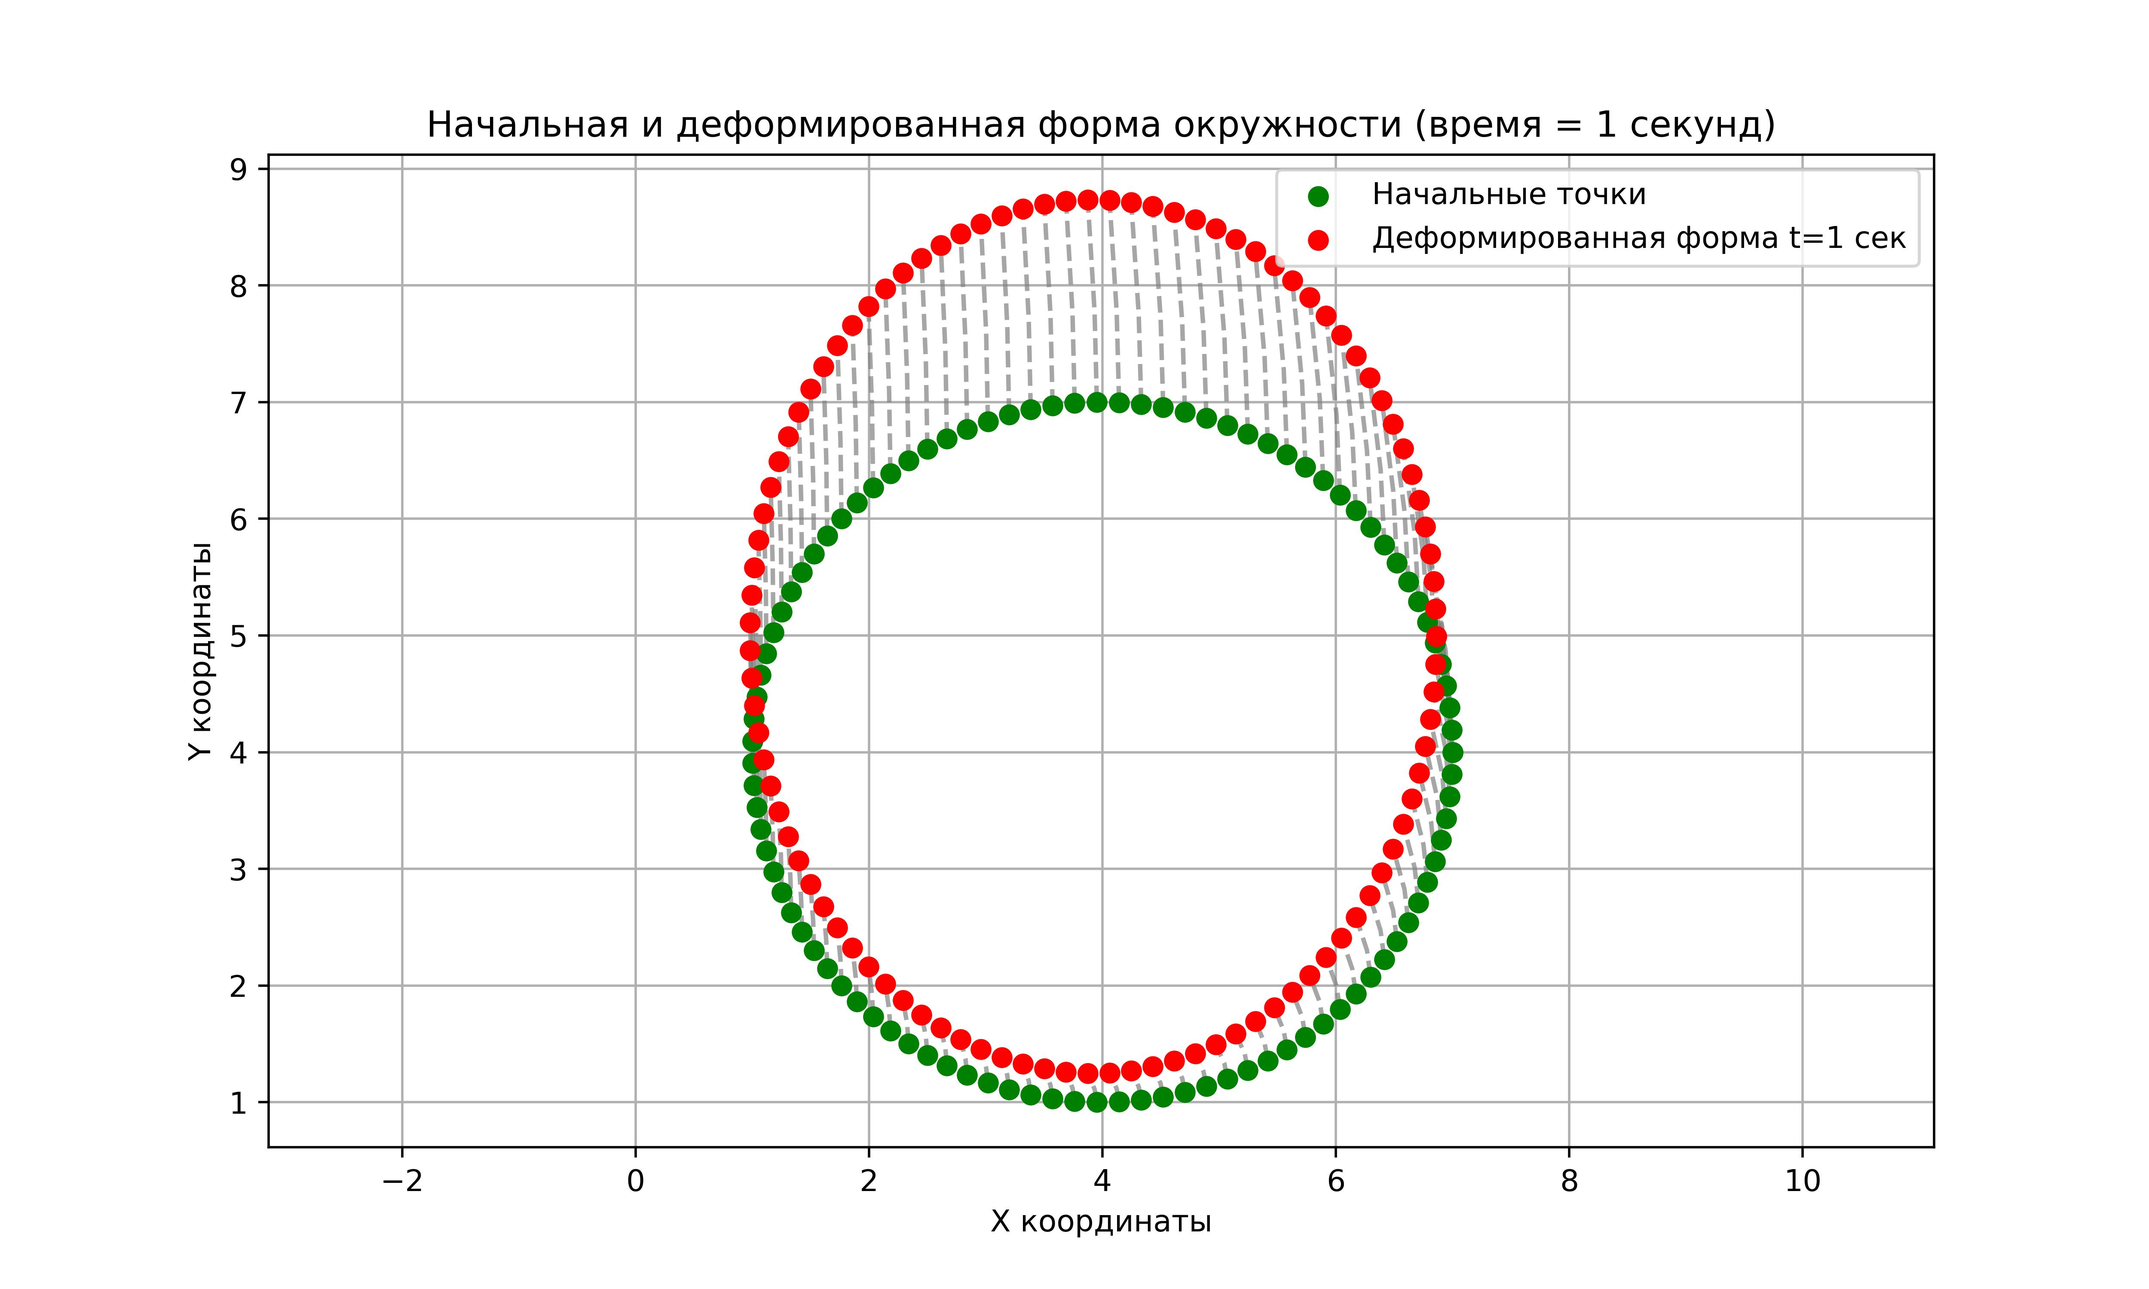
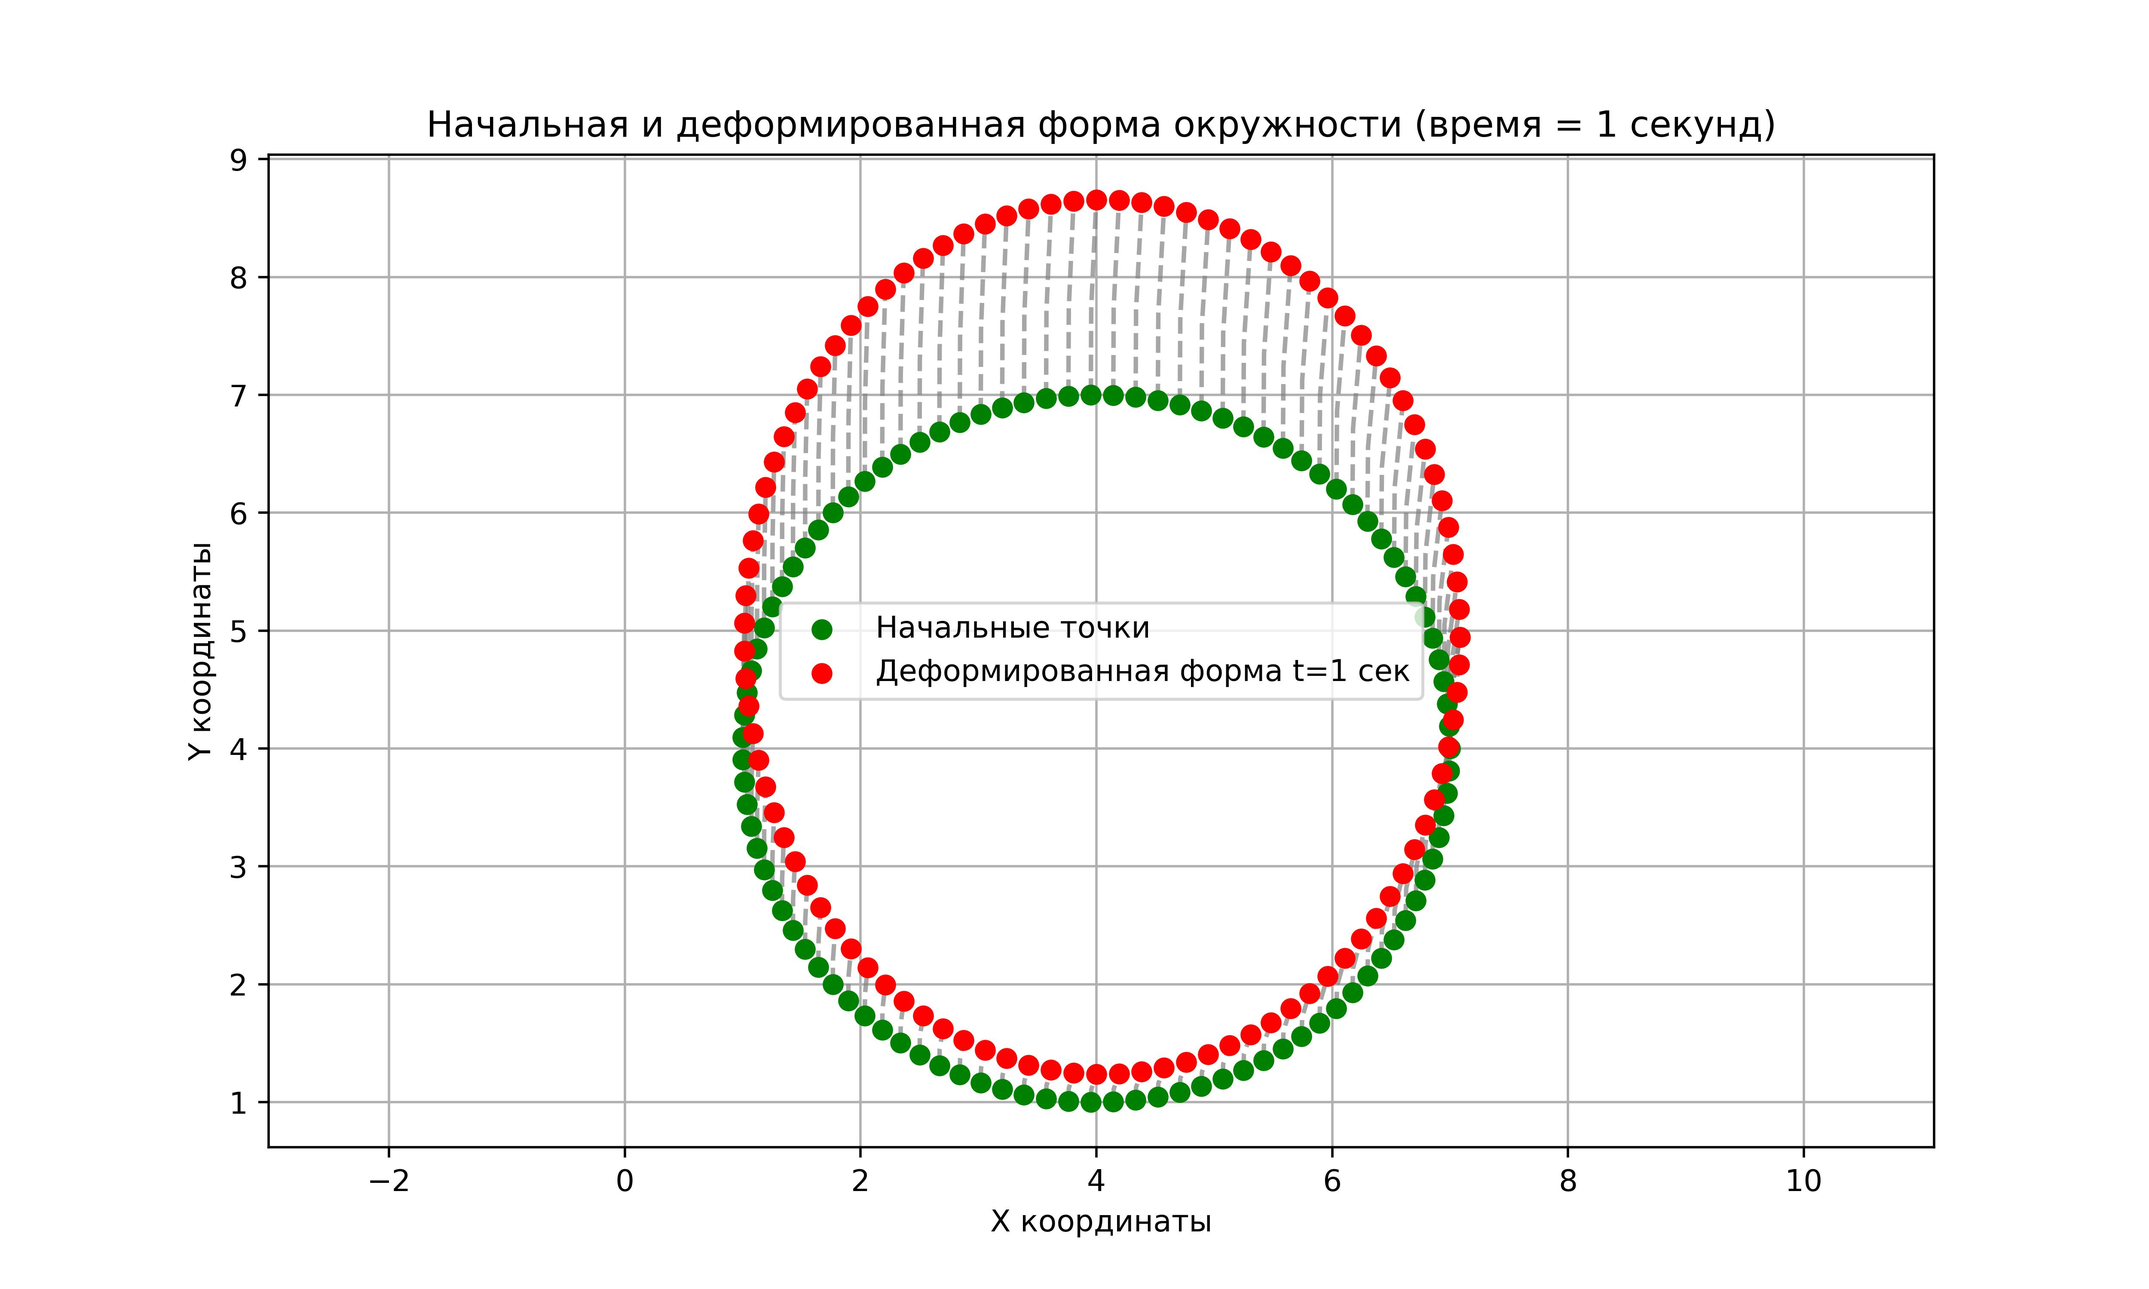
Последнее обновление в коде
Исправлен метод Рунге Кутты, а также переделана логика задания материального тела

diff --git a/methods/RungeKutta.py b/methods/RungeKutta.py
@@ -1,72 +1,64 @@
 import numpy as np
-from models.body import CirclePoints
 
-class RungeKutta(CirclePoints):
-    def __init__(self, num_points, lifetime, h):
-        super().__init__(num_points, lifetime)
-        self.result_points = None  # Массив результатов для каждой точки
-        self.step = h
-        self.result_x = None # для траектории
-        self.result_y = None # для траектории
-        self.result_t = None # для траектории
-        # Коэффициенты таблицы Бутчера (для метода с 4 стадиями)
-        #Серединные коэффициенты таблицы Бутчера
+class RungeKutta:
+    def __init__(self, lifetime, h):
+        self.lifetime = lifetime  # Временной интервал
+        self.step = h  # Шаг времени
+        self.result_x = None
+        self.result_y = None
+        self.result_t = None
+        # Коэффициенты таблицы Бутчера
         self.a = np.array([
             [0, 0, 0],
             [0.5, 0, 0],
             [-1, 2, 0]
         ])
-        #Нижние кф таблицы Бутчера
-        self.b = np.array([1/6, 4/6, 1/6])
-        #Левые кф таблицы Бутчера
+        self.b = np.array([1 / 6, 4 / 6, 1 / 6])
         self.c = np.array([0, 0.5, 1])
-        self.solve()
 
     def f(self, t, x, y):
         dx_dt = np.sin(t) * x
         dy_dt = np.exp(t) * y
-        return dx_dt, dy_dt
+        return np.array([dx_dt, dy_dt])
 
-    def solve(self):
-        self.generate_points() # Вызывает родительский метод который генерирует точки
+    def runge_kutta_step(self, t, x_r):
+        h = self.step
+        k1 = self.f(t, x_r[0], x_r[1])
+        k2 = self.f(t + self.c[0] * h, x_r[0] + self.a[1, 0] * h * k1[0], x_r[1] + self.a[1, 0] * h * k1[1])
+        k3 = self.f(t + self.c[1] * h,
+                    x_r[0] + self.a[2, 0] * h * k1[0] + self.a[2, 1] * h * k2[0],
+                    x_r[1] + self.a[2, 0] * h * k1[1] + self.a[2, 1] * h * k2[1])
+        return x_r + h * np.dot(self.b, [k1, k2, k3])
+
+    def solve(self, x_points, y_points):
         t_start, t_end = self.lifetime
         t_values = np.arange(t_start, t_end + self.step, self.step)
         self.result_t = t_values
-        u = 0      # счетчик
-        results = []  # Для хранения решений для всех начальных точек
-        results_x = np.zeros((len(self.x_points), len(t_values)))   # двумерный массив иксов и игриков
-        results_y = np.zeros((len(self.x_points), len(t_values))) # где номер строки это номер точки, а строка - координаты для траектории
-        for x0, y0 in zip(self.x_points, self.y_points):
+
+        num_points = len(x_points)
+        num_times = len(t_values)
+
+        results_x = np.zeros((num_points, num_times))
+        results_y = np.zeros((num_points, num_times))
+
+        # Интеграция для каждой точки
+        for idx, (x0, y0) in enumerate(zip(x_points, y_points)):
             x_values = np.zeros_like(t_values)
             y_values = np.zeros_like(t_values)
 
-            # Установка начальных условий для текущей точки
+            # Установка начальных условий
             x_values[0] = x0
             y_values[0] = y0
 
-            for i in range(1, len(t_values)):
-                t = t_values[i - 1]
-                x = x_values[i - 1]
-                y = y_values[i - 1]
+            # Интеграция методом Рунге-Кутты
+            current_position = np.array([x0, y0])
+            for i in range(1, num_times):
+                current_position = self.runge_kutta_step(t_values[i - 1], current_position)
+                x_values[i], y_values[i] = current_position
 
-                # Вычисление стадий
-                kx = np.zeros(len(self.c))
-                ky = np.zeros(len(self.c))
-                for j in range(len(self.c)):
-                    t_stage = t + self.c[j] * self.step
-                    x_stage = x + self.step * np.dot(self.a[j, :j], kx[:j])
-                    y_stage = y + self.step * np.dot(self.a[j, :j], ky[:j])
-                    kx[j], ky[j] = self.f(t_stage, x_stage, y_stage)
+            results_x[idx] = x_values
+            results_y[idx] = y_values
 
-                # Вычисление следующего значения x и y
-                x_values[i] = x + self.step * np.dot(self.b, kx)
-                y_values[i] = y + self.step * np.dot(self.b, ky)
-
-            results.append((x_values, y_values))
-            results_x[u] = x_values
-            results_y[u] = y_values
-            u += 1
         self.result_x = results_x
         self.result_y = results_y
-        self.result_points = results
-        return results
+        return results_x, results_y

diff --git a/run.py b/run.py
@@ -1,44 +1,63 @@
 from methods.streamline import StrLine
+from methods.trajectory import Trajectory
+from models.body import MaterialCircle
 from methods.RungeKutta import RungeKutta
+
 import matplotlib.pyplot as plt
 import os
 
-# Заданные параметры
-lifetime = 1
-num_points = 100  # Количество точек
-h = 0.1  # Шаг метода Рунге-Кутты
 
 # Создание папки для сохранения, если её нет
 save_dir = 'C:/Users/Lenovo/Desktop/прога/PythonProject/plots'
-os.makedirs(save_dir, exist_ok=True)
+
 
 # Список временных моментов
 time_values = [0, 0.5, 1, 2, 3, 5, 10]
 
-# Построение и сохранение графиков линий тока
+# Построение и сохранение графиков линий тока и поля скоростей
 for t in time_values:
     grafik = StrLine(t)  # Объект для текущего времени
-    grafik.graf(save_dir)  # Сохранение графиков линий тока
+    grafik.graf(save_dir)  # Сохранение графиков линий тока и поля скоростей
 
 # Расчёт траекторий с помощью метода Рунге-Кутты
-rk = RungeKutta(num_points, lifetime, h)
+circle = MaterialCircle(radius=3, center=(4, 4))
+circle.generate_points(num_points=100)
+x_points, y_points = zip(*circle.get_points())
+
+# Инициализация Рунге-Кутты
+rk = RungeKutta(lifetime=(0, 1), h=0.1)
+result_x, result_y = rk.solve(x_points, y_points)
+
+selected_index = 0  # Индекс первой точки
+selected_x = result_x[selected_index]
+selected_y = result_y[selected_index]
+# Создание объекта Trajectory для выбранной точки
+trajectory = Trajectory(selected_x, selected_y)
+# Визуализация траектории
+save_path = os.path.join(save_dir, 'trajectory_of_selected_point.jpeg')
+trajectory.plot_trajectory(save_path=save_path)
+
+# Вывод координат траектории
+trajectory_points = [(round(float(x), 2), round(float(y), 2)) for x, y in trajectory.get_trajectory()]
+print(f"Траектория точки {circle.get_points()[selected_index]}:")
+print(trajectory_points)
 
 # Построение начальной и деформированной формы в каждый момент времени
 for t_idx, t in enumerate(time_values):
     plt.figure(figsize=(10, 6))
 
     # Начальное состояние точек
-    plt.scatter(rk.x_points, rk.y_points, color="green", label="Начальные точки", zorder=3)
+    plt.scatter(x_points, y_points, color="green", label="Начальные точки", zorder=3)
 
     # Деформированное состояние точек в текущий момент времени
-    if t_idx < rk.result_x.shape[1]:  # Проверка на доступность времени
-        x_coords = rk.result_x[:, t_idx]
-        y_coords = rk.result_y[:, t_idx]
+    if t_idx < result_x.shape[1]:  # Проверка на доступность времени
+        x_coords = result_x[:, t_idx]
+        y_coords = result_y[:, t_idx]
         plt.scatter(x_coords, y_coords, color="red", label=f"Деформированная форма t={t} сек", zorder=3)
 
         # Траектории точек до текущего времени
-        for i in range(len(rk.result_x)):
-            plt.plot(rk.result_x[i, :t_idx + 1], rk.result_y[i, :t_idx + 1], linestyle="--", alpha=0.7, color="gray")
+        for i in range(len(result_x)):
+            plt.plot(result_x[i, :t_idx + 1], result_y[i, :t_idx + 1], linestyle="--", alpha=0.7, color="gray")
 
     # Оформление графика
     plt.title(f"Начальная и деформированная форма окружности (время = {t} секунд)")
@@ -51,4 +70,4 @@ for t_idx, t in enumerate(time_values):
     # Сохранение графика начальной и деформированной формы
     save_path = os.path.join(save_dir, f'deformation_time_{round(t, 1)}_second.jpeg')
     plt.savefig(save_path, format='jpeg', dpi=500)
-    plt.close()  # Закрываем текущую фигуру
+    plt.close()

diff --git a/methods/trajectory.py b/methods/trajectory.py
@@ -4,24 +4,26 @@ class Trajectory(RungeKutta):
     # Конструктор класса
     def __init__(self, x_coords, y_coords):
         # Инициализация объекта с координатами траектории
-        self.x_coords = x_coords  # Сохраняем координаты по оси X
-        self.y_coords = y_coords  # Сохраняем координаты по оси Y
+        self.x_coords = x_coords
+        self.y_coords = y_coords
 
     # Метод для получения траектории в виде списка координат
     def get_trajectory(self):
         trajectory = []  # Список для хранения координат
         # Объединяем координаты X и Y в кортежи и добавляем в список
         for x, y in zip(self.x_coords, self.y_coords):
-            trajectory.append((x, y))  # Добавляем точку в траекторию
-        return trajectory  # Возвращаем список траектории
+            trajectory.append((x, y))
+        return trajectory
 
     # Метод для визуализации траектории с помощью графика
-    def plot_trajectory(self):
-        # Строим график, используя координаты X и Y
-        plt.plot(self.x_coords, self.y_coords, marker='o')  # Отображаем точки на графике
-        # Заголовок графика
+    def plot_trajectory(self, save_path=None):
+        plt.plot(self.x_coords, self.y_coords, marker='o')
         plt.title("Траектория пути")
         plt.xlabel("X координаты")
         plt.ylabel("Y координаты")
         plt.grid()
+
+        if save_path:  # Если указан путь, сохраняем график
+            plt.savefig(save_path, format='jpeg', dpi=500)
+
         plt.show()

diff --git a/models/body.py b/models/body.py
@@ -1,23 +1,17 @@
 import numpy as np
 
-class MatCircle:
-    def __init__(self, lifetime):
-        self.radius = 3  # Радиус окружности
-        self.lifetime = (0, lifetime)  # Время жизни тела
-        self.cent_point_cord = (4, 4)  # Центр окружности (4, 4)
-        self.color = 'blue'  # Цвет окружности
+class MaterialCircle:
+    def __init__(self, radius, center):
+        self.radius = radius
+        self.center = center
+        self.points = []  # Лист для сохранения точек окружности
 
-class CirclePoints(MatCircle):
-    def __init__(self, num_points, lifetime):
-        super().__init__(lifetime)  # Инициализация родительского класса MatCircle
-        self.num_points = num_points  # Количество точек на окружности
-        self.x_points = None  # Массив координат x
-        self.y_points = None  # Массив координат y
+    def generate_points(self, num_points):
+        angles = np.linspace(0, np.pi*2, num_points)  # Углы для первой четверти
+        for angle in angles:
+            x = self.center[0] + self.radius * np.cos(angle)
+            y = self.center[1] + self.radius * np.sin(angle)
+            self.points.append((x, y))
 
-    def generate_points(self):
-        # Углы точек для полной окружности
-        angles = np.linspace(0, 2 * np.pi, self.num_points)
-        # Вычисляем координаты x и y с центром в (4, 4)
-        self.x_points = self.radius * np.cos(angles) + self.cent_point_cord[0]
-        self.y_points = self.radius * np.sin(angles) + self.cent_point_cord[1]
-
+    def get_points(self):
+        return self.points

diff --git a/methods/streamline.py b/methods/streamline.py
@@ -11,11 +11,10 @@ class StrLine:
             np.linspace(-5, 5, 1000), np.linspace(-5, 5, 1000)
         )
         # Поле скоростей
-        self.v_x = self.x * math.sin(self.time)  # x-компонента скорости
-        self.v_y = self.y * math.exp(self.time)  # y-компонента скорости
+        self.v_x = self.x * math.sin(self.time)
+        self.v_y = self.y * math.exp(self.time)
 
     def graf(self, save_dir):
-        # Создание общей фигуры для отображения попарно
         fig, axes = plt.subplots(1, 2, figsize=(16, 6))
 
         # Линии тока (streamplot использует поле скоростей для вычисления)
